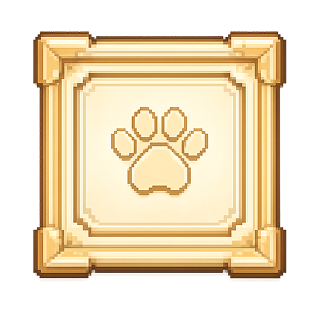
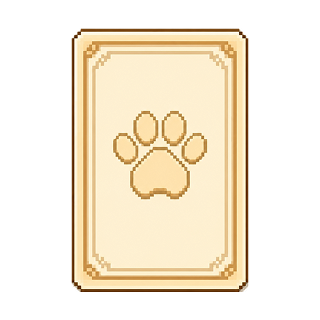
style : 액자 및 기회 카드 이미지 교체
- 던지기 액자를 신규 카드 이미지로 교체
- 남은 기회 상태 이미지를 교체하고 크기를 조정

diff --git a/src/features/capture-photo/ui/CaptureGame.tsx b/src/features/capture-photo/ui/CaptureGame.tsx
@@ -836,8 +836,8 @@ const styles = StyleSheet.create({
     columnGap: 3,
   },
   opportunityFrame: {
-    width: 24,
-    height: 24,
+    width: 21.35,
+    height: 21.35,
   },
   guideImage: {
     position: 'absolute',
